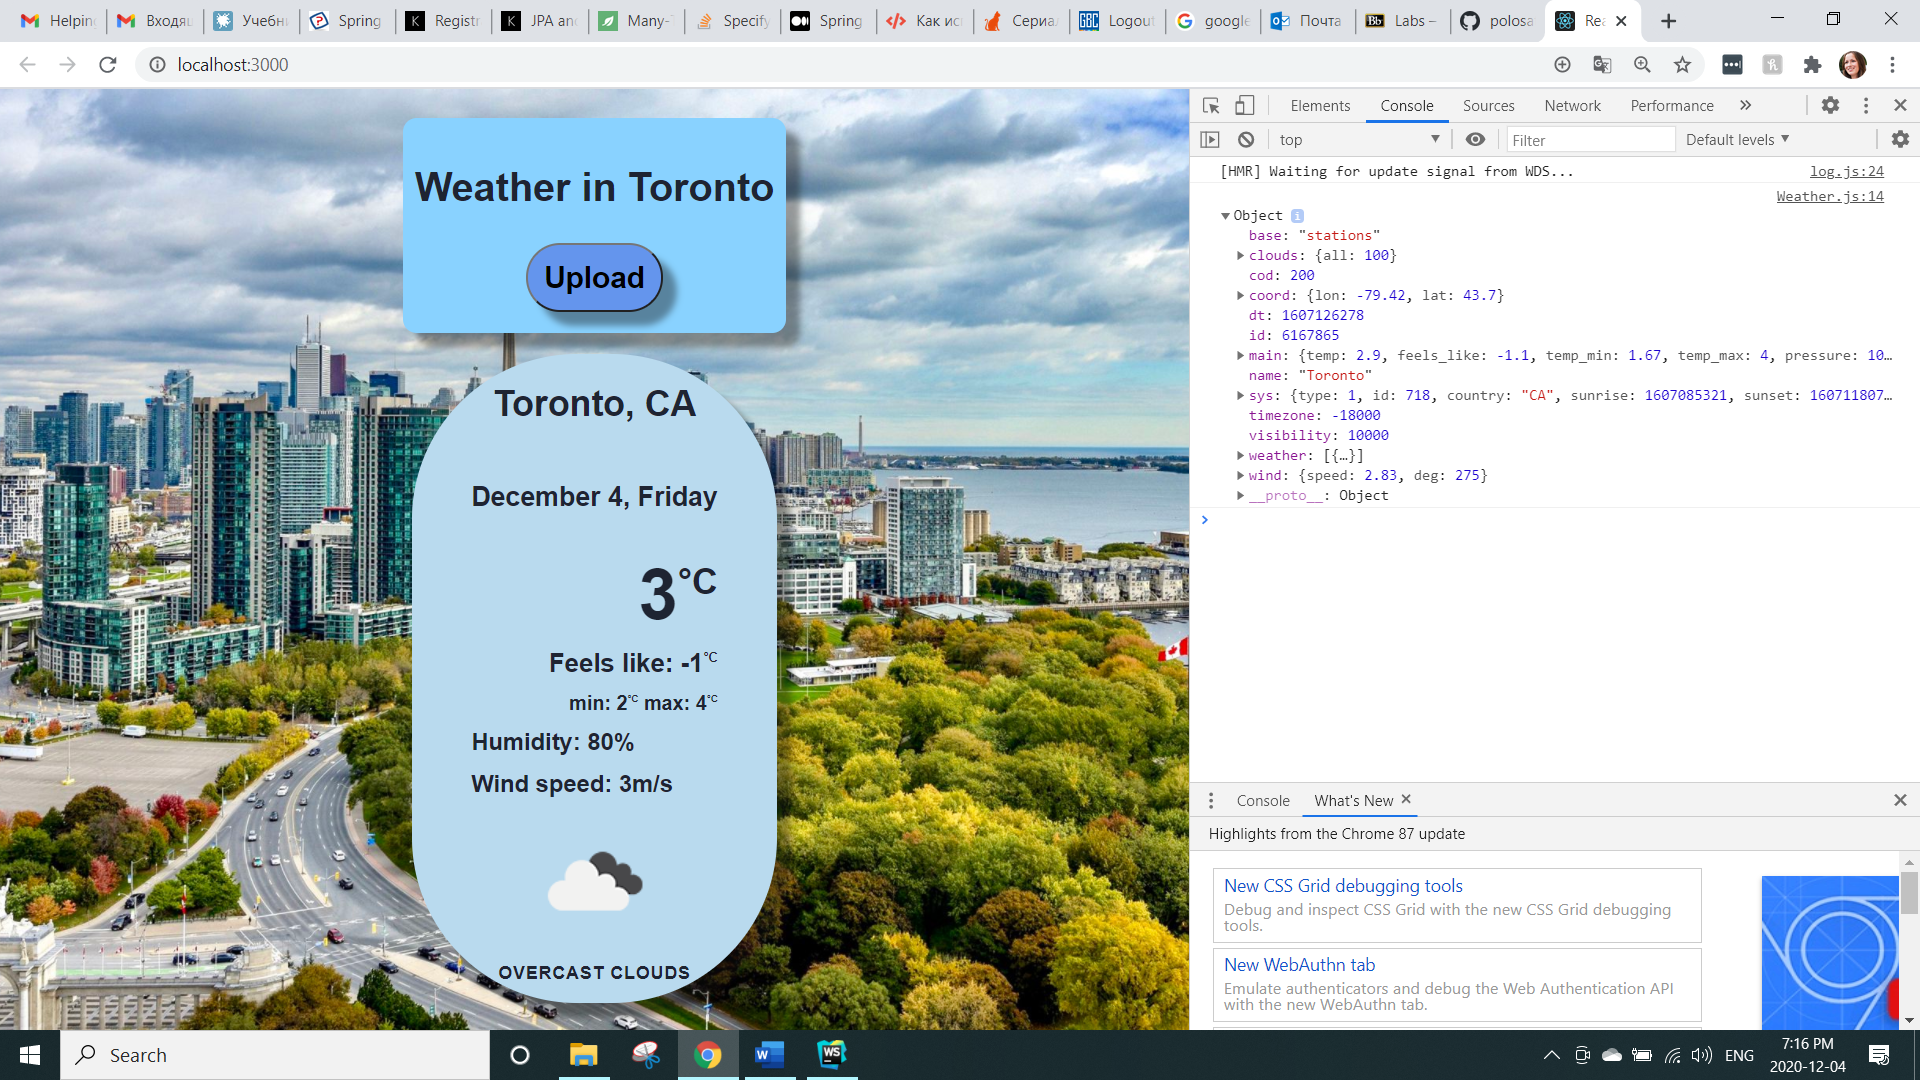
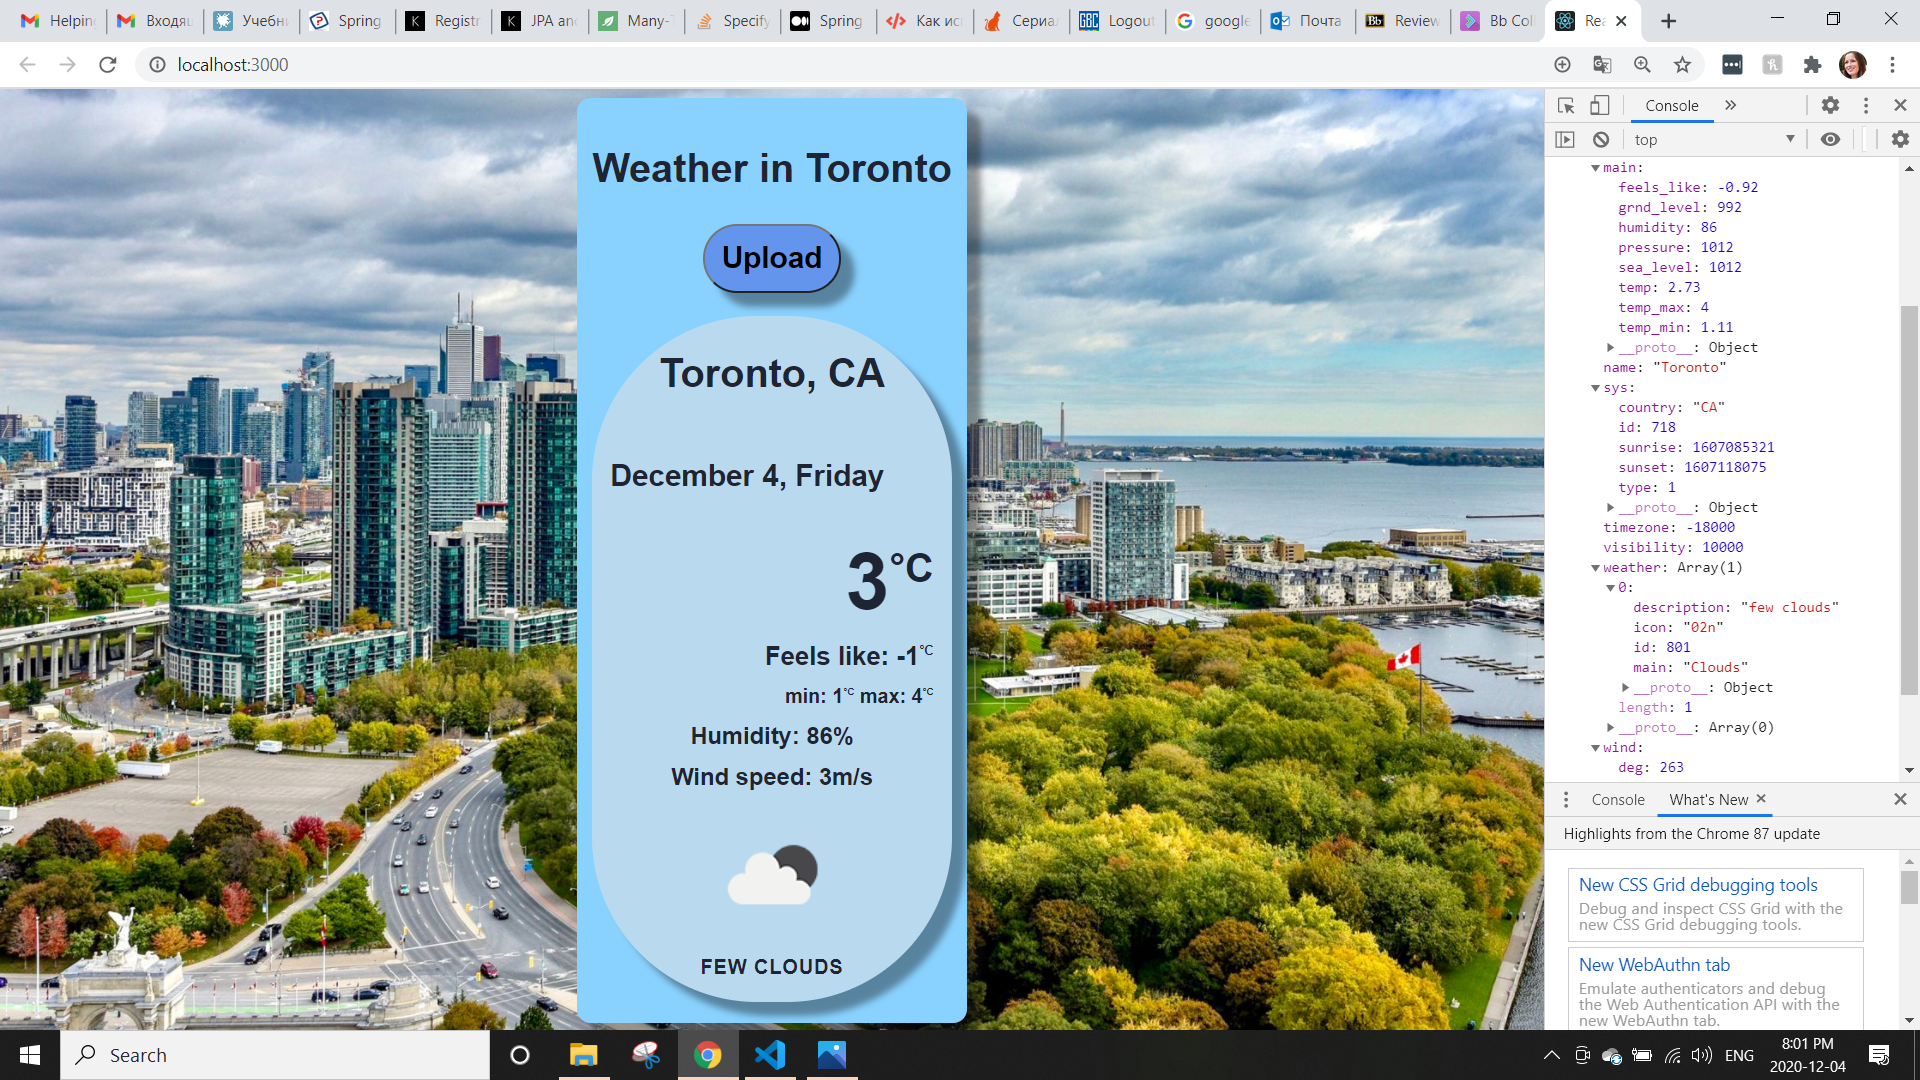
Change CSS

diff --git a/src/Weather.js b/src/Weather.js
@@ -20,7 +20,7 @@ const Weather = () => {
             <div className="topic">
             <h1>Weather in Toronto</h1>
             <button type="button" className="button-click" onClick={fetchWeather}>Upload</button>
-            </div><br/>
+            <br/><br/>
             {weather.main && (
                 <div className="city">
                     <h2 className="city-name"><span>{weather.name}, {weather.sys.country}</span></h2>
@@ -36,6 +36,7 @@ const Weather = () => {
                     </div>
                 </div>
             )}
+        </div>
         </div>
     );
 }
